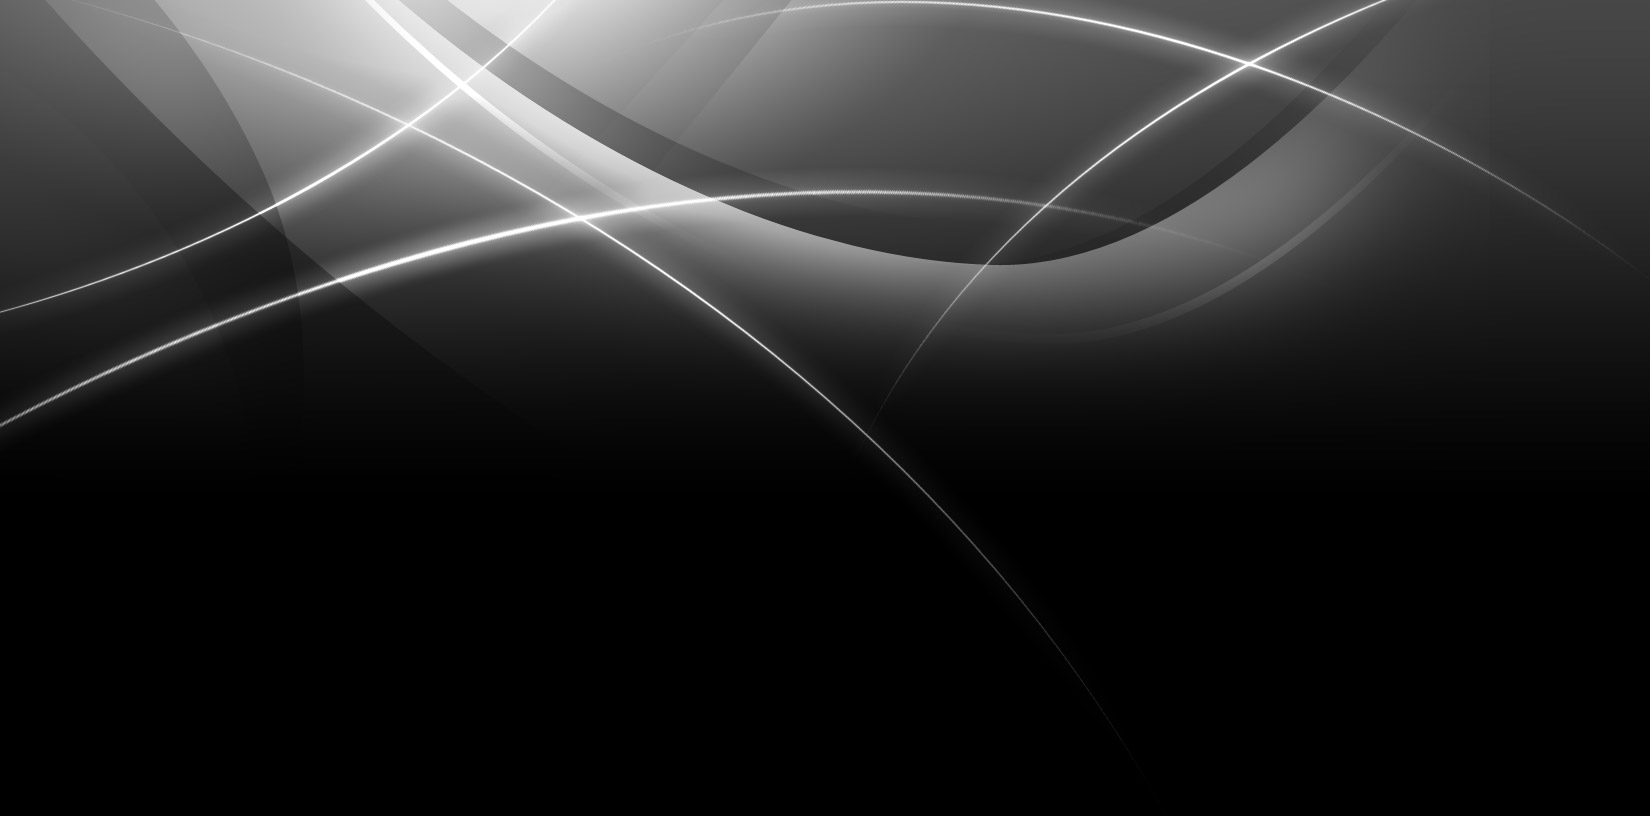
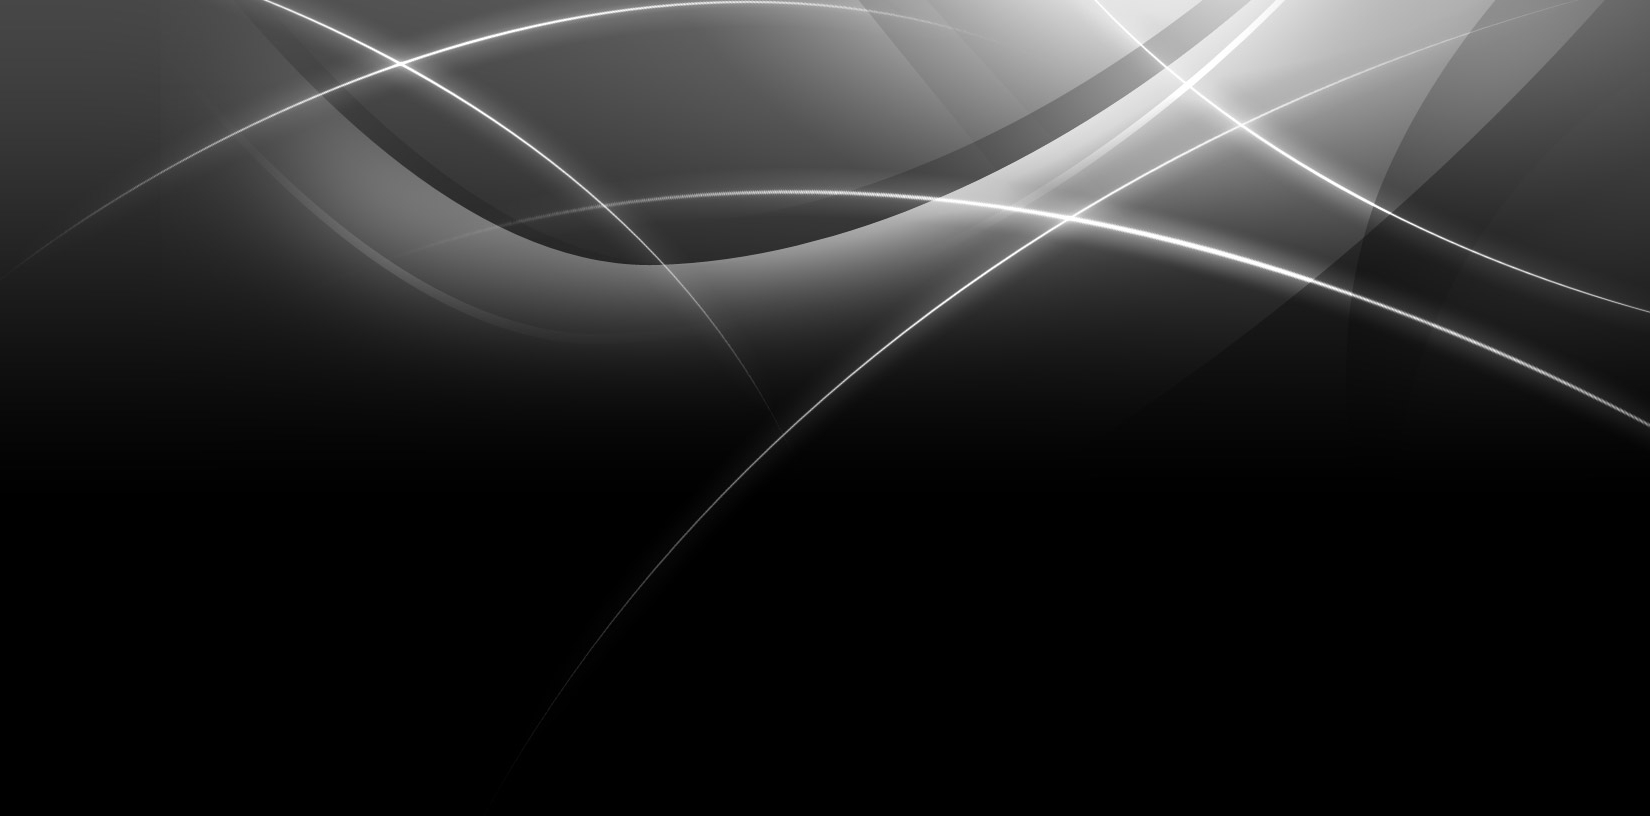
aesthetic changes

diff --git a/app/index.html b/app/index.html
@@ -7,7 +7,7 @@
 		<meta name="author" content="Mik" />
 		<meta name="viewport" content="width=device-width, initial-scale=1.0" />
 
-		<link rel="icon" href="/favicon.png">
+		<link rel="shortcut icon" type="image/png" href="/favicon.png">
 		<!-- Replace favicon.ico & apple-touch-icon.png in the root of your domain and delete these references -->
 		<link rel="apple-touch-icon" href="/apple-touch-icon.png" />
 		<!-- Date: 2013-09-11 -->
@@ -24,7 +24,7 @@
 	</head>
 
 	<body class="no-logo fae">
-		<header id="branding" role="banner" style="background-color: #333333; width:271px; height:59px; border-radius: 10px; align:left;">
+		<header id="branding" role="banner" style="width:271px; height:59px; border-radius: 10px; align:left;">
 			<a href="file://///lasp-smb/mico2178/windesktop/GitHub/lasp-vivo-skillview/app/index.html#/"><img src="images/cu-lasp-logo.png"/></a>
 		</header>
 			<div ng-view>

diff --git a/app/css/app.css b/app/css/app.css
@@ -20,7 +20,7 @@ body {
 }
 
 html { 
-  background: url(../images/metal-full-hd-metallic-827851.jpg) no-repeat center center fixed; 
+  background: url(../images/bg1.jpg) no-repeat center center fixed; 
   -webkit-background-size: cover;
   -moz-background-size: cover;
   -o-background-size: cover;
@@ -84,8 +84,8 @@ width: 100%;
 height: 114px;
 margin: 0 auto;
 font-size: 1em;
-color: rgba(256,256,256,1);
-background-color: rgba(00,0,0,0.7);
+color: white;
+/*background-color: #FBFBF9;*/
 }
 
 .done-true {

diff --git a/app/css/wilma.css b/app/css/wilma.css
@@ -272,7 +272,7 @@ a.return:active {
     color: #5F6464;
 }
 .header {
-    color: #5F6464;
+	color: #5F6464;
 }
 .database_header {
     background-color: #f1f2ee;
